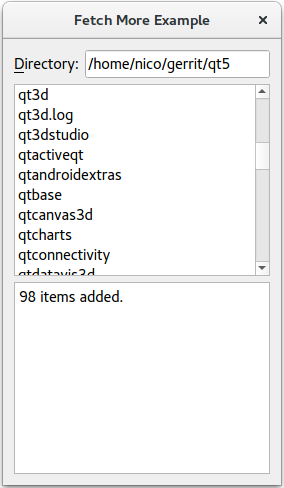
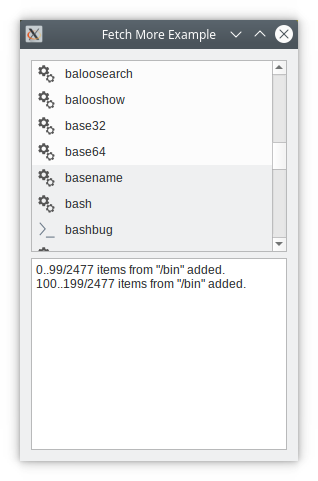
Rewrite the fetchmore example
- Start in root folder so that large directories (/bin/, Windows)
  are easily reachable
- Remove the line edit and navigate by double clicking instead
  since this is more in line with expectations
- Use a QPlainTextEdit for logging
- Make the log message more informative
- Add icons

Changed region(s): [[0.0, 0.0, 1.0, 1.0]]

diff --git a/examples/widgets/itemviews/fetchmore/filelistmodel.cpp b/examples/widgets/itemviews/fetchmore/filelistmodel.cpp
@@ -54,8 +54,10 @@
 #include <QDir>
 #include <QPalette>
 
+static const int batchSize = 100;
+
 FileListModel::FileListModel(QObject *parent)
-    : QAbstractListModel(parent), fileCount(0)
+    : QAbstractListModel(parent)
 {}
 
 //![4]
@@ -67,23 +69,32 @@ int FileListModel::rowCount(const QModelIndex &parent) const
 QVariant FileListModel::data(const QModelIndex &index, int role) const
 {
     if (!index.isValid())
-        return QVariant();
+        return {};
 
-    if (index.row() >= fileList.size() || index.row() < 0)
-        return QVariant();
+    const int row = index.row();
+    if (row >= fileList.size() || row < 0)
+        return {};
 
-    if (role == Qt::DisplayRole) {
-        return fileList.at(index.row());
-    } else if (role == Qt::BackgroundRole) {
-        int batch = (index.row() / 100) % 2;
-        if (batch == 0)
-            return qApp->palette().base();
-        else
-            return qApp->palette().alternateBase();
+    switch (role) {
+    case Qt::DisplayRole:
+        return fileList.at(row).fileName();
+    case Qt::BackgroundRole: {
+        const int batch = row / batchSize;
+        const QPalette &palette = QGuiApplication::palette();
+        return (batch % 2) != 0 ? palette.alternateBase() : palette.base();
     }
-    return QVariant();
+    case Qt::DecorationRole:
+        return iconProvider.icon(fileList.at(row));
+    }
+    return {};
 }
+
 //![4]
+
+QFileInfo FileListModel::fileInfoAt(const QModelIndex &index) const
+{
+    return fileList.at(index.row());
+}
 
 //![1]
 bool FileListModel::canFetchMore(const QModelIndex &parent) const
@@ -99,19 +110,20 @@ void FileListModel::fetchMore(const QModelIndex &parent)
 {
     if (parent.isValid())
         return;
-    int remainder = fileList.size() - fileCount;
-    int itemsToFetch = qMin(100, remainder);
+    const int start = fileCount;
+    const int remainder = int(fileList.size()) - start;
+    const int itemsToFetch = qMin(batchSize, remainder);
 
     if (itemsToFetch <= 0)
         return;
 
-    beginInsertRows(QModelIndex(), fileCount, fileCount + itemsToFetch - 1);
+    beginInsertRows(QModelIndex(), start, start + itemsToFetch - 1);
 
     fileCount += itemsToFetch;
 
     endInsertRows();
 
-    emit numberPopulated(itemsToFetch);
+    emit numberPopulated(path, start, itemsToFetch, int(fileList.size()));
 }
 //![2]
 
@@ -121,7 +133,8 @@ void FileListModel::setDirPath(const QString &path)
     QDir dir(path);
 
     beginResetModel();
-    fileList = dir.entryList();
+    this->path = path;
+    fileList = dir.entryInfoList(QDir::NoDot | QDir::AllEntries, QDir::Name);
     fileCount = 0;
     endResetModel();
 }

diff --git a/examples/widgets/itemviews/fetchmore/window.cpp b/examples/widgets/itemviews/fetchmore/window.cpp
@@ -56,37 +56,43 @@
 Window::Window(QWidget *parent)
     : QWidget(parent)
 {
-    FileListModel *model = new FileListModel(this);
-    model->setDirPath(QLibraryInfo::path(QLibraryInfo::PrefixPath));
+    model = new FileListModel(this);
+    model->setDirPath(QDir::rootPath());
 
-    QLabel *label = new QLabel(tr("&Directory:"));
-    QLineEdit *lineEdit = new QLineEdit;
-    label->setBuddy(lineEdit);
-
-    QListView *view = new QListView;
+    view = new QListView;
     view->setModel(model);
 
-    logViewer = new QTextBrowser(this);
-    logViewer->setSizePolicy(QSizePolicy(QSizePolicy::Preferred, QSizePolicy::Preferred));
+    logViewer = new QPlainTextEdit(this);
+    logViewer->setReadOnly(true);
+    logViewer->setSizePolicy(QSizePolicy(QSizePolicy::Preferred,
+                                         QSizePolicy::Preferred));
 
-    connect(lineEdit, &QLineEdit::textChanged,
-            model, &FileListModel::setDirPath);
-    connect(lineEdit, &QLineEdit::textChanged,
-            logViewer, &QTextEdit::clear);
     connect(model, &FileListModel::numberPopulated,
             this, &Window::updateLog);
+    connect(view, &QAbstractItemView::activated,
+            this, &Window::activated);
 
-    QGridLayout *layout = new QGridLayout;
-    layout->addWidget(label, 0, 0);
-    layout->addWidget(lineEdit, 0, 1);
-    layout->addWidget(view, 1, 0, 1, 2);
-    layout->addWidget(logViewer, 2, 0, 1, 2);
+    auto *layout = new QVBoxLayout(this);
+    layout->addWidget(view);
+    layout->addWidget(logViewer);
 
-    setLayout(layout);
     setWindowTitle(tr("Fetch More Example"));
 }
 
-void Window::updateLog(int number)
+void Window::updateLog(const QString &path, int start, int number, int total)
 {
-    logViewer->append(tr("%1 items added.").arg(number));
+    const int last = start + number - 1;
+    const QString nativePath = QDir::toNativeSeparators(path);
+    const QString message = tr("%1..%2/%3 items from \"%4\" added.")
+                            .arg(start).arg(last).arg(total).arg(nativePath);
+    logViewer->appendPlainText(message);
+}
+
+void Window::activated(const QModelIndex &index)
+{
+    const QFileInfo fi = model->fileInfoAt(index);
+    if (fi.isDir()) {
+        logViewer->clear();
+        model->setDirPath(fi.absoluteFilePath());
+    }
 }

diff --git a/examples/widgets/itemviews/fetchmore/filelistmodel.h b/examples/widgets/itemviews/fetchmore/filelistmodel.h
@@ -52,7 +52,8 @@
 #define FILELISTMODEL_H
 
 #include <QAbstractListModel>
-#include <QStringList>
+#include <QFileInfoList>
+#include <QFileIconProvider>
 
 //![0]
 class FileListModel : public QAbstractListModel
@@ -65,8 +66,10 @@ public:
     int rowCount(const QModelIndex &parent = QModelIndex()) const override;
     QVariant data(const QModelIndex &index, int role = Qt::DisplayRole) const override;
 
+    QFileInfo fileInfoAt(const QModelIndex &) const;
+
 signals:
-    void numberPopulated(int number);
+    void numberPopulated(const QString &path, int start, int number, int total);
 
 public slots:
     void setDirPath(const QString &path);
@@ -76,8 +79,10 @@ protected:
     void fetchMore(const QModelIndex &parent) override;
 
 private:
-    QStringList fileList;
-    int fileCount;
+    QFileInfoList fileList;
+    QString path;
+    QFileIconProvider iconProvider;
+    int fileCount = 0;
 };
 //![0]
 

diff --git a/examples/widgets/itemviews/fetchmore/window.h b/examples/widgets/itemviews/fetchmore/window.h
@@ -54,8 +54,12 @@
 #include <QWidget>
 
 QT_BEGIN_NAMESPACE
-class QTextBrowser;
+class QModelIndex;
+class QListView;
+class QPlainTextEdit;
 QT_END_NAMESPACE
+
+class FileListModel;
 
 class Window : public QWidget
 {
@@ -65,10 +69,13 @@ public:
     Window(QWidget *parent = nullptr);
 
 public slots:
-    void updateLog(int number);
+    void updateLog(const QString &path, int start, int number, int total);
+    void activated(const QModelIndex &);
 
 private:
-    QTextBrowser *logViewer;
+    QPlainTextEdit *logViewer;
+    FileListModel *model;
+    QListView *view;
 };
 
 #endif // WINDOW_H
